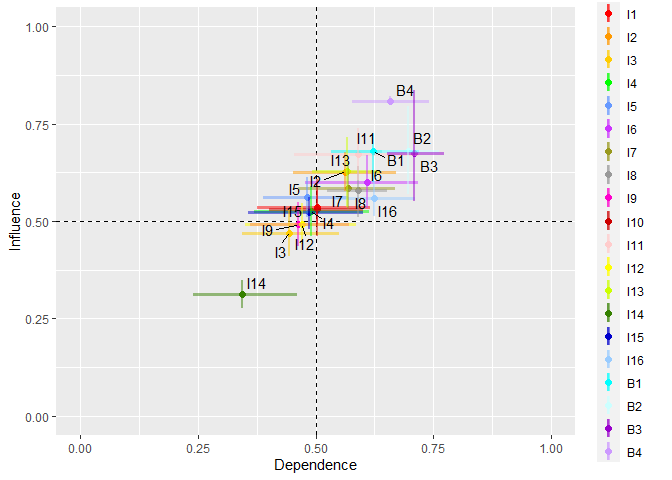
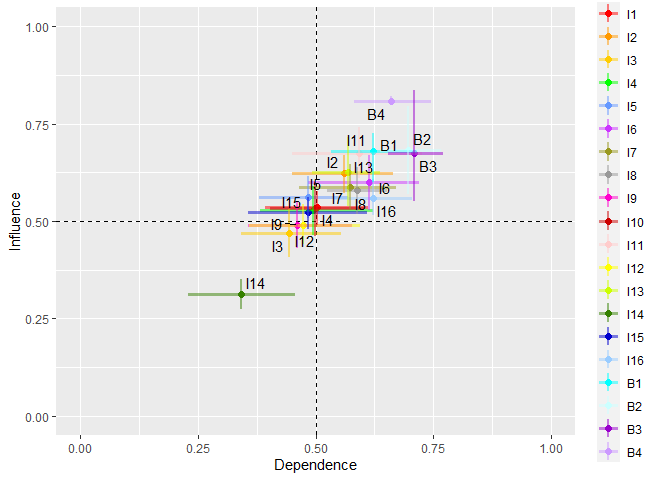
Update

diff --git a/README.md b/README.md
@@ -187,17 +187,17 @@ displayed.
 
 ``` r
 result$DirectEffects[1:10,]
-#>    From  To  Mean   UCI p.value
-#> 1    I1  I2 0.525 0.650   0.595
-#> 2    I1  I3 0.450 0.575   0.281
-#> 3    I1  I4 0.525 0.655   0.603
-#> 4    I1  I5 0.465 0.640   0.370
-#> 5    I1  I6 0.645 0.810   0.865
-#> 6    I1  I7 0.815 0.870   1.000
-#> 7    I1  I8 0.580 0.695   0.841
-#> 8    I1  I9 0.490 0.635   0.449
-#> 9    I1 I10 0.560 0.700   0.753
-#> 10   I1 I11 0.525 0.695   0.594
+#>    From  To  Mean     UCI p.value
+#> 1    I1  I2 0.525 0.65500   0.590
+#> 2    I1  I3 0.450 0.60000   0.281
+#> 3    I1  I4 0.525 0.66000   0.624
+#> 4    I1  I5 0.465 0.65500   0.367
+#> 5    I1  I6 0.645 0.79525   0.879
+#> 6    I1  I7 0.815 0.87000   1.000
+#> 7    I1  I8 0.580 0.69500   0.837
+#> 8    I1  I9 0.490 0.64000   0.464
+#> 9    I1 I10 0.560 0.70525   0.729
+#> 10   I1 I11 0.525 0.69000   0.571
 ```
 
 Any result that contains a NA value in the UCI and p.value fields
@@ -232,16 +232,16 @@ Complete graphs only make use of the `CE` parameter. Here is an example:
 result <- directEffects(CE = CC, thr = 0.5, reps = 1000)
 result$DirectEffects[1:10,]
 #>    From  To  Mean     UCI p.value
-#> 1    I1  I2 0.525 0.65000   0.594
-#> 2    I1  I3 0.450 0.59000   0.297
-#> 3    I1  I4 0.525 0.65500   0.617
-#> 4    I1  I5 0.465 0.63025   0.372
-#> 5    I1  I6 0.645 0.79500   0.872
-#> 6    I1  I7 0.815 0.87000   1.000
-#> 7    I1  I8 0.580 0.70000   0.850
-#> 8    I1  I9 0.490 0.63000   0.475
-#> 9    I1 I10 0.560 0.71000   0.728
-#> 10   I1 I11 0.525 0.70000   0.585
+#> 1    I1  I2 0.525 0.65000   0.604
+#> 2    I1  I3 0.450 0.59525   0.286
+#> 3    I1  I4 0.525 0.67000   0.619
+#> 4    I1  I5 0.465 0.64500   0.383
+#> 5    I1  I6 0.645 0.80500   0.869
+#> 6    I1  I7 0.815 0.87500   1.000
+#> 7    I1  I8 0.580 0.70000   0.847
+#> 8    I1  I9 0.490 0.63500   0.449
+#> 9    I1 I10 0.560 0.70525   0.722
+#> 10   I1 I11 0.525 0.69500   0.589
 ```
 
 ## bootMargin()
@@ -313,48 +313,48 @@ their values are:
 ``` r
 result$byCause
 #>    Var      Mean       LCI       UCI p.value
-#> 1   I1 0.5353370 0.4929151 0.5796759   0.140
-#> 2   I2 0.6259986 0.5760185 0.6774097   0.002
-#> 3   I3 0.4692481 0.4097456 0.5268025   0.392
-#> 4   I4 0.5257383 0.4621860 0.5895435   0.472
-#> 5   I5 0.5604041 0.5101287 0.6119072   0.048
-#> 6   I6 0.6002155 0.5319463 0.6692118   0.010
-#> 7   I7 0.5855215 0.5310694 0.6478377   0.018
-#> 8   I8 0.5796211 0.5107522 0.6410563   0.032
-#> 9   I9 0.4907417 0.4354550 0.5487083   0.696
-#> 10 I10 0.5299861 0.4609863 0.6071957   0.386
-#> 11 I11 0.6715745 0.6042105 0.7392178   0.000
-#> 12 I12 0.4912482 0.4394071 0.5461177   0.814
-#> 13 I13 0.6276045 0.5361316 0.7155526   0.014
-#> 14 I14 0.3115360 0.2756045 0.3477247   0.000
-#> 15 I15 0.5226640 0.4802696 0.5619373   0.290
-#> 16 I16 0.5579624 0.5137794 0.6030716   0.022
-#> 17  B1 0.6795450 0.6000000 0.7250000   0.616
-#> 18  B2 0.6794250 0.5700000 0.7950000   0.076
-#> 19  B3 0.6736267 0.5500000 0.8350000   0.066
-#> 20  B4 0.8083233 0.8000000 0.8200000   0.084
+#> 1   I1 0.5348260 0.4890640 0.5766682   0.138
+#> 2   I2 0.6242440 0.5708310 0.6704769   0.000
+#> 3   I3 0.4692691 0.4077288 0.5306179   0.366
+#> 4   I4 0.5277707 0.4646046 0.5886836   0.494
+#> 5   I5 0.5620892 0.5074846 0.6143655   0.050
+#> 6   I6 0.5995631 0.5274699 0.6697688   0.014
+#> 7   I7 0.5873125 0.5309189 0.6460417   0.008
+#> 8   I8 0.5784057 0.5177251 0.6379254   0.036
+#> 9   I9 0.4903835 0.4315024 0.5472880   0.696
+#> 10 I10 0.5323750 0.4608300 0.6009315   0.406
+#> 11 I11 0.6736042 0.6106075 0.7421155   0.000
+#> 12 I12 0.4905313 0.4413286 0.5440046   0.822
+#> 13 I13 0.6263934 0.5371689 0.7149145   0.016
+#> 14 I14 0.3129677 0.2723672 0.3497751   0.000
+#> 15 I15 0.5224982 0.4787364 0.5618078   0.294
+#> 16 I16 0.5599447 0.5145161 0.6064825   0.034
+#> 17  B1 0.6792550 0.6000000 0.7250000   0.622
+#> 18  B2 0.6823000 0.5700000 0.7950000   0.096
+#> 19  B3 0.6750200 0.5500000 0.8350000   0.062
+#> 20  B4 0.8083333 0.8000000 0.8200000   0.076
 result$byEffect
 #>    Var      Mean       LCI       UCI p.value
-#> 1   I1 0.5026625 0.3768027 0.6160043   0.938
-#> 2   I2 0.5624791 0.4515186 0.6697051   0.336
-#> 3   I3 0.4444708 0.3447015 0.5491395   0.358
-#> 4   I4 0.4907196 0.3690008 0.6134762   0.886
-#> 5   I5 0.4819049 0.3883092 0.5688565   0.762
-#> 6   I6 0.6092610 0.4769560 0.7166584   0.376
-#> 7   I7 0.5692719 0.4619660 0.6684679   0.274
-#> 8   I8 0.5895846 0.5247291 0.6525560   0.016
-#> 9   I9 0.4632007 0.3607536 0.5720054   0.568
-#> 10 I10 0.5037096 0.4012978 0.6013220   0.984
-#> 11 I11 0.5903976 0.4534365 0.7188588   0.284
-#> 12 I12 0.4707339 0.3495743 0.5866575   0.782
-#> 13 I13 0.5673676 0.4918071 0.6369167   0.134
-#> 14 I14 0.3446500 0.2392793 0.4610760   0.026
-#> 15 I15 0.4852995 0.3560429 0.6013853   0.746
-#> 16 I16 0.6229688 0.5407287 0.7114423   0.028
-#> 17  B1 0.6223428 0.5322885 0.7195209   0.042
-#> 18  B2 0.6964191 0.6417520 0.7619711   0.000
-#> 19  B3 0.7091029 0.6519922 0.7728403   0.000
-#> 20  B4 0.6583730 0.5772825 0.7405988   0.000
+#> 1   I1 0.5022324 0.3919363 0.6113811   0.930
+#> 2   I2 0.5606192 0.4511417 0.6645417   0.346
+#> 3   I3 0.4440015 0.3411715 0.5532302   0.324
+#> 4   I4 0.4952096 0.3821044 0.6229298   0.852
+#> 5   I5 0.4851443 0.3799619 0.5697214   0.698
+#> 6   I6 0.6131504 0.4836782 0.7185508   0.374
+#> 7   I7 0.5725031 0.4652468 0.6708981   0.264
+#> 8   I8 0.5887837 0.5247833 0.6524646   0.024
+#> 9   I9 0.4602504 0.3573560 0.5776054   0.648
+#> 10 I10 0.4997504 0.4044208 0.6031637   0.888
+#> 11 I11 0.5913535 0.4499234 0.7252592   0.240
+#> 12 I12 0.4731011 0.3594159 0.5941472   0.724
+#> 13 I13 0.5679242 0.4929795 0.6376237   0.122
+#> 14 I14 0.3428364 0.2298274 0.4562339   0.040
+#> 15 I15 0.4830725 0.3566226 0.6081043   0.792
+#> 16 I16 0.6209712 0.5399833 0.7038132   0.008
+#> 17  B1 0.6211837 0.5325076 0.7142570   0.038
+#> 18  B2 0.6957081 0.6357878 0.7649920   0.000
+#> 19  B3 0.7078423 0.6543755 0.7698374   0.000
+#> 20  B4 0.6600633 0.5820641 0.7455971   0.006
 ```
 
 The parameter `plot = TRUE` generates the Dependency-Influence plane
@@ -459,26 +459,26 @@ The results obtained are:
 ``` r
 result
 #>    Var     Median        LCI       UCI Method pValue
-#> 1   I1 14.5928488  9.7956174 21.350585  conpl   0.87
-#> 2   I2 14.3563883  6.9669664 15.982455  conpl   0.72
-#> 3   I3  8.1428571  1.1000000 14.100000 median     NA
-#> 4   I4  0.6304530  0.1381803  1.410466  conpl   0.44
-#> 5   I5  4.9851140  0.7488343  5.996145  conpl   0.34
-#> 6   I6 13.5131265  0.8248384 32.420736  conpl   0.22
-#> 7   I7 24.9878131  9.5127431 25.683050  conpl   0.64
-#> 8   I8  5.0604244  1.5941137 10.129009  conpl   0.77
-#> 9   I9  2.2542738  0.2065006  2.657844  conpl   0.78
-#> 10 I10  0.4667305  0.1295650  3.731656  conpl   0.10
-#> 11 I11 21.2412358 10.5239979 21.849872  conpl   0.68
-#> 12 I12  7.3106674  7.0809045  7.481355  conpl   0.80
-#> 13 I13  2.3886553  0.5067284  4.512930  conpl   0.60
+#> 1   I1 14.5928488  5.7027296 21.077057  conpl   0.90
+#> 2   I2 14.3563883  7.2006417 15.563849  conpl   0.76
+#> 3   I3  8.1428571  1.1000000 13.193486 median     NA
+#> 4   I4  0.6304530  0.1268614  1.256204  conpl   0.48
+#> 5   I5  4.9851140  4.3084551  5.835371  conpl   0.32
+#> 6   I6 13.5131265  5.6671220 32.179891  conpl   0.19
+#> 7   I7 24.9878131 17.4787983 25.333211  conpl   0.67
+#> 8   I8  5.0604244  1.6559433  6.905017  conpl   0.87
+#> 9   I9  3.8250000  0.3923263 11.136738 median     NA
+#> 10 I10  0.4667305  0.1308994  3.929054  conpl   0.10
+#> 11 I11 21.2412358  9.7077813 21.599264  conpl   0.69
+#> 12 I12  7.3106674  2.9355707  7.558573  conpl   0.79
+#> 13 I13  2.3886553  0.5447938  3.964018  conpl   0.46
 #> 14 I14  0.0000000  0.0000000  0.000000 median     NA
-#> 15 I15  2.7760383  0.2018116  6.610533  conpl   0.83
-#> 16 I16 10.0007456  3.4395567 13.039134  conpl   0.70
-#> 17  B1  3.5000000  1.4166667 14.600000 median     NA
-#> 18  B2  1.8957816  0.6643364  2.535891  conpl   0.42
-#> 19  B3  0.8308252  0.3514284  1.493158  conpl   0.35
-#> 20  B4  3.4524972  0.7493693  4.351237  conpl   0.89
+#> 15 I15  2.7760383  0.2001746  6.610533  conpl   0.77
+#> 16 I16 10.0007456  3.5596928 13.682491  conpl   0.80
+#> 17  B1  3.5000000  1.4166667  4.500000 median     NA
+#> 18  B2  1.8957816  0.7758066  2.296492  conpl   0.34
+#> 19  B3  0.8308252  0.3377657  1.454149  conpl   0.43
+#> 20  B4  3.4524972  0.7573743  4.170746  conpl   0.94
 ```
 
 If any variable cannot be calculated with `model = "conpl"` it will be
@@ -491,23 +491,23 @@ Complete graphs only make use of the `CE` parameter. Here is an example:
 ``` r
 result <- centrality(CE = CC, model = "median", reps = 500)
 result
-#>    Var    Median       LCI      UCI Method pValue
-#> 1   I1 20.000000 7.1666667 41.50000 median     NA
-#> 2   I2 14.500000 2.5000000 24.77778 median     NA
-#> 3   I3  6.851190 0.3250000 12.58333 median     NA
-#> 4   I4  2.079167 0.8333333 23.41667 median     NA
-#> 5   I5  7.833333 0.6666667  9.00000 median     NA
-#> 6   I6 28.391667 8.3380952 36.83333 median     NA
-#> 7   I7 11.500000 2.0000000 41.33333 median     NA
-#> 8   I8  7.416667 2.1666667 15.17738 median     NA
-#> 9   I9  5.200000 3.1500000 13.50000 median     NA
-#> 10 I10  4.250000 1.2500000 12.00000 median     NA
-#> 11 I11 22.000000 3.6311884 30.75000 median     NA
-#> 12 I12 12.516667 0.5000000 15.36667 median     NA
-#> 13 I13  6.208333 2.0000000 12.37500 median     NA
-#> 14 I14  0.000000 0.0000000  0.00000      0     NA
-#> 15 I15  6.958333 2.0000000 51.60417 median     NA
-#> 16 I16 16.166667 8.5769841 43.85417 median     NA
+#>    Var    Median       LCI       UCI Method pValue
+#> 1   I1 20.000000 7.2374464 41.500000 median     NA
+#> 2   I2 14.500000 2.0899208 24.777778 median     NA
+#> 3   I3  6.851190 0.3250000 12.583333 median     NA
+#> 4   I4  2.079167 0.8333333 21.583333 median     NA
+#> 5   I5  7.833333 0.3250000  8.333333 median     NA
+#> 6   I6 28.391667 8.3380952 36.833333 median     NA
+#> 7   I7 11.500000 1.6516462 41.333333 median     NA
+#> 8   I8  7.416667 2.1666667 15.177381 median     NA
+#> 9   I9  5.200000 3.1500000 13.500000 median     NA
+#> 10 I10  4.250000 1.3858543 27.345238 median     NA
+#> 11 I11 22.000000 3.8256416 30.750000 median     NA
+#> 12 I12 12.516667 0.5000000 15.366667 median     NA
+#> 13 I13  6.208333 2.0000000 12.375000 median     NA
+#> 14 I14  0.000000 0.0000000  0.000000      0     NA
+#> 15 I15  6.958333 2.0000000 51.604167 median     NA
+#> 16 I16 16.166667 8.5769841 43.854167 median     NA
 ```
 
 ## FE()
@@ -596,12 +596,12 @@ The results of the forgotten effects of the second order are:
 ``` r
 head(result$boot$Order_2)
 #>   From Through_1 To Count  Mean LCI   UCI         SE
-#> 1   I1       I11 B1     2 0.800 0.6 1.000 0.14398087
-#> 2   I8        I7 B1     2 0.725 0.6 0.725 0.08980423
-#> 3  I14       I15 B2     2 0.725 0.7 0.725 0.01775649
+#> 1   I1       I11 B1     2 0.800 0.6 0.800 0.14022719
+#> 2   I8        I7 B1     2 0.725 0.6 0.725 0.08690101
+#> 3  I14       I15 B2     2 0.725 0.7 0.750 0.01798257
 #> 4  I10       I11 B3     2 0.600  NA    NA         NA
-#> 5  I14       I15 B3     2 0.725 0.7 0.725 0.01762555
-#> 6   I9        B3 B1     2 0.725 0.7 0.725 0.01763251
+#> 5  I14       I15 B3     2 0.725 0.7 0.725 0.01779119
+#> 6   I9        B3 B1     2 0.725 0.7 0.725 0.01780987
 ```
 
 Any result containing an NA value in the LCI, UCI, and SE fields
@@ -621,12 +621,12 @@ Complete graphs only make use of the `CE` parameter. Here is an example:
 result <- FE(CE = CC, thr = 0.5, maxOrder = 3, reps = 1000)
 head(result$boot$Order_2)
 #>   From Through_1  To Count      Mean    LCI       UCI         SE
-#> 1   I8       I11 I10     4 0.6125000 0.5625 0.6615477 0.02690548
-#> 2   I5       I11 I10     3 0.6166667 0.5500 0.6666667 0.03562165
-#> 3   I6       I11 I14     3 0.6833333 0.6000 0.7666667 0.07088501
-#> 4  I13       I11 I14     3 0.5833333 0.5500 0.5833333 0.01327800
-#> 5  I13        I6  I1     3 0.6333333 0.6000 0.6666667 0.02542234
-#> 6  I13       I16  I1     3 0.6333333 0.6000 0.6666667 0.02747491
+#> 1   I8       I11 I10     4 0.6125000 0.5625 0.6500000 0.02690025
+#> 2   I5       I11 I10     3 0.6166667 0.5500 0.6906074 0.03643012
+#> 3   I6       I11 I14     3 0.6833333 0.6000 0.7666667 0.06684738
+#> 4  I13       I11 I14     3 0.5833333 0.5500 0.6000000 0.01388883
+#> 5  I13        I6  I1     3 0.6333333 0.6000 0.6666667 0.02733228
+#> 6  I13       I16  I1     3 0.6333333 0.6000 0.6666667 0.02743940
 ```
 
 ## References
@@ -659,3 +659,24 @@ head(result$boot$Order_2)
     poweRlaw package. arXiv preprint arXiv:1407.3492.
 
 9.  Kohl, M., & Kohl, M. M. (2020). Package ‘MKinfer’.
+
+## Citation
+
+``` r
+citation("foRgotten")
+#> 
+#> To cite foRgotten in publications use:
+#> 
+#>   Mardones-Arias, E.; Rojas-Mora, J. foRgotten.
+#>   https://github.com/ElliottMardones/foRgotten
+#> 
+#> A BibTeX entry for LaTeX users is
+#> 
+#>   @Manual{,
+#>     title = {foRgotten},
+#>     author = {Elliott Mardones-Arias and Julio Rojas-Mora},
+#>     year = {2022},
+#>     note = {R package version 1.1.0},
+#>     url = {https://github.com/ElliottMardones/foRgotten},
+#>   }
+```
